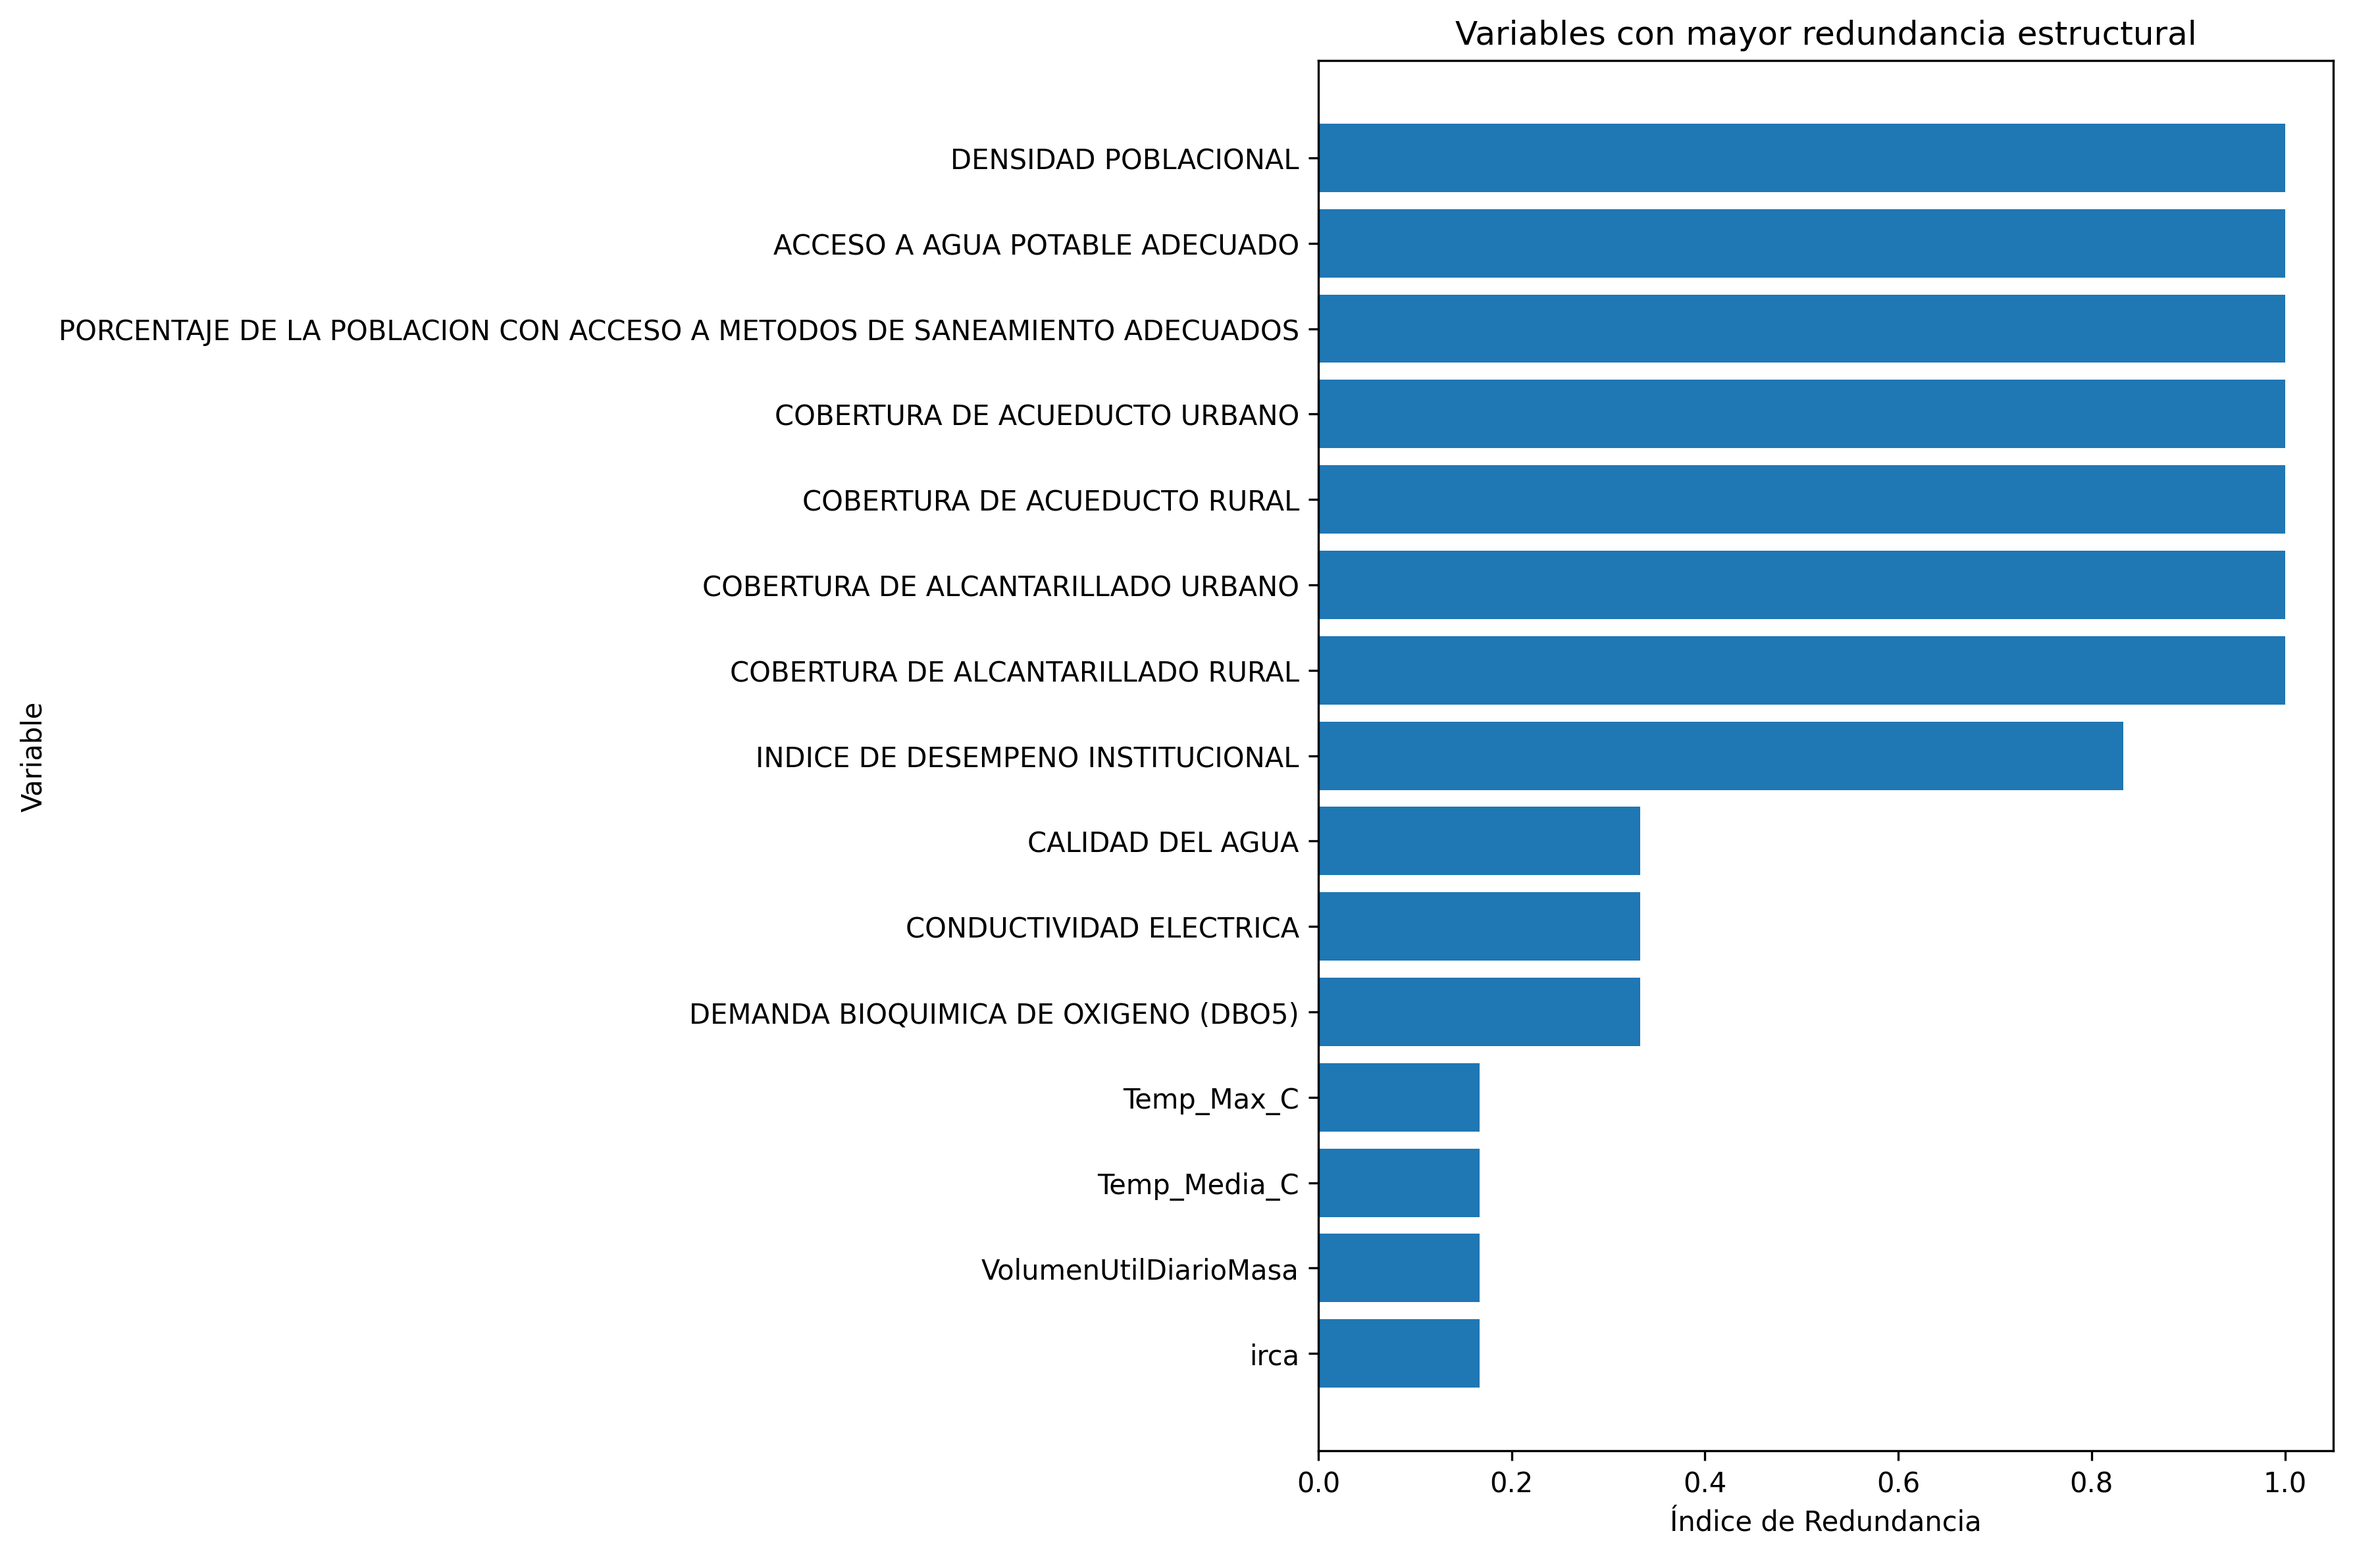
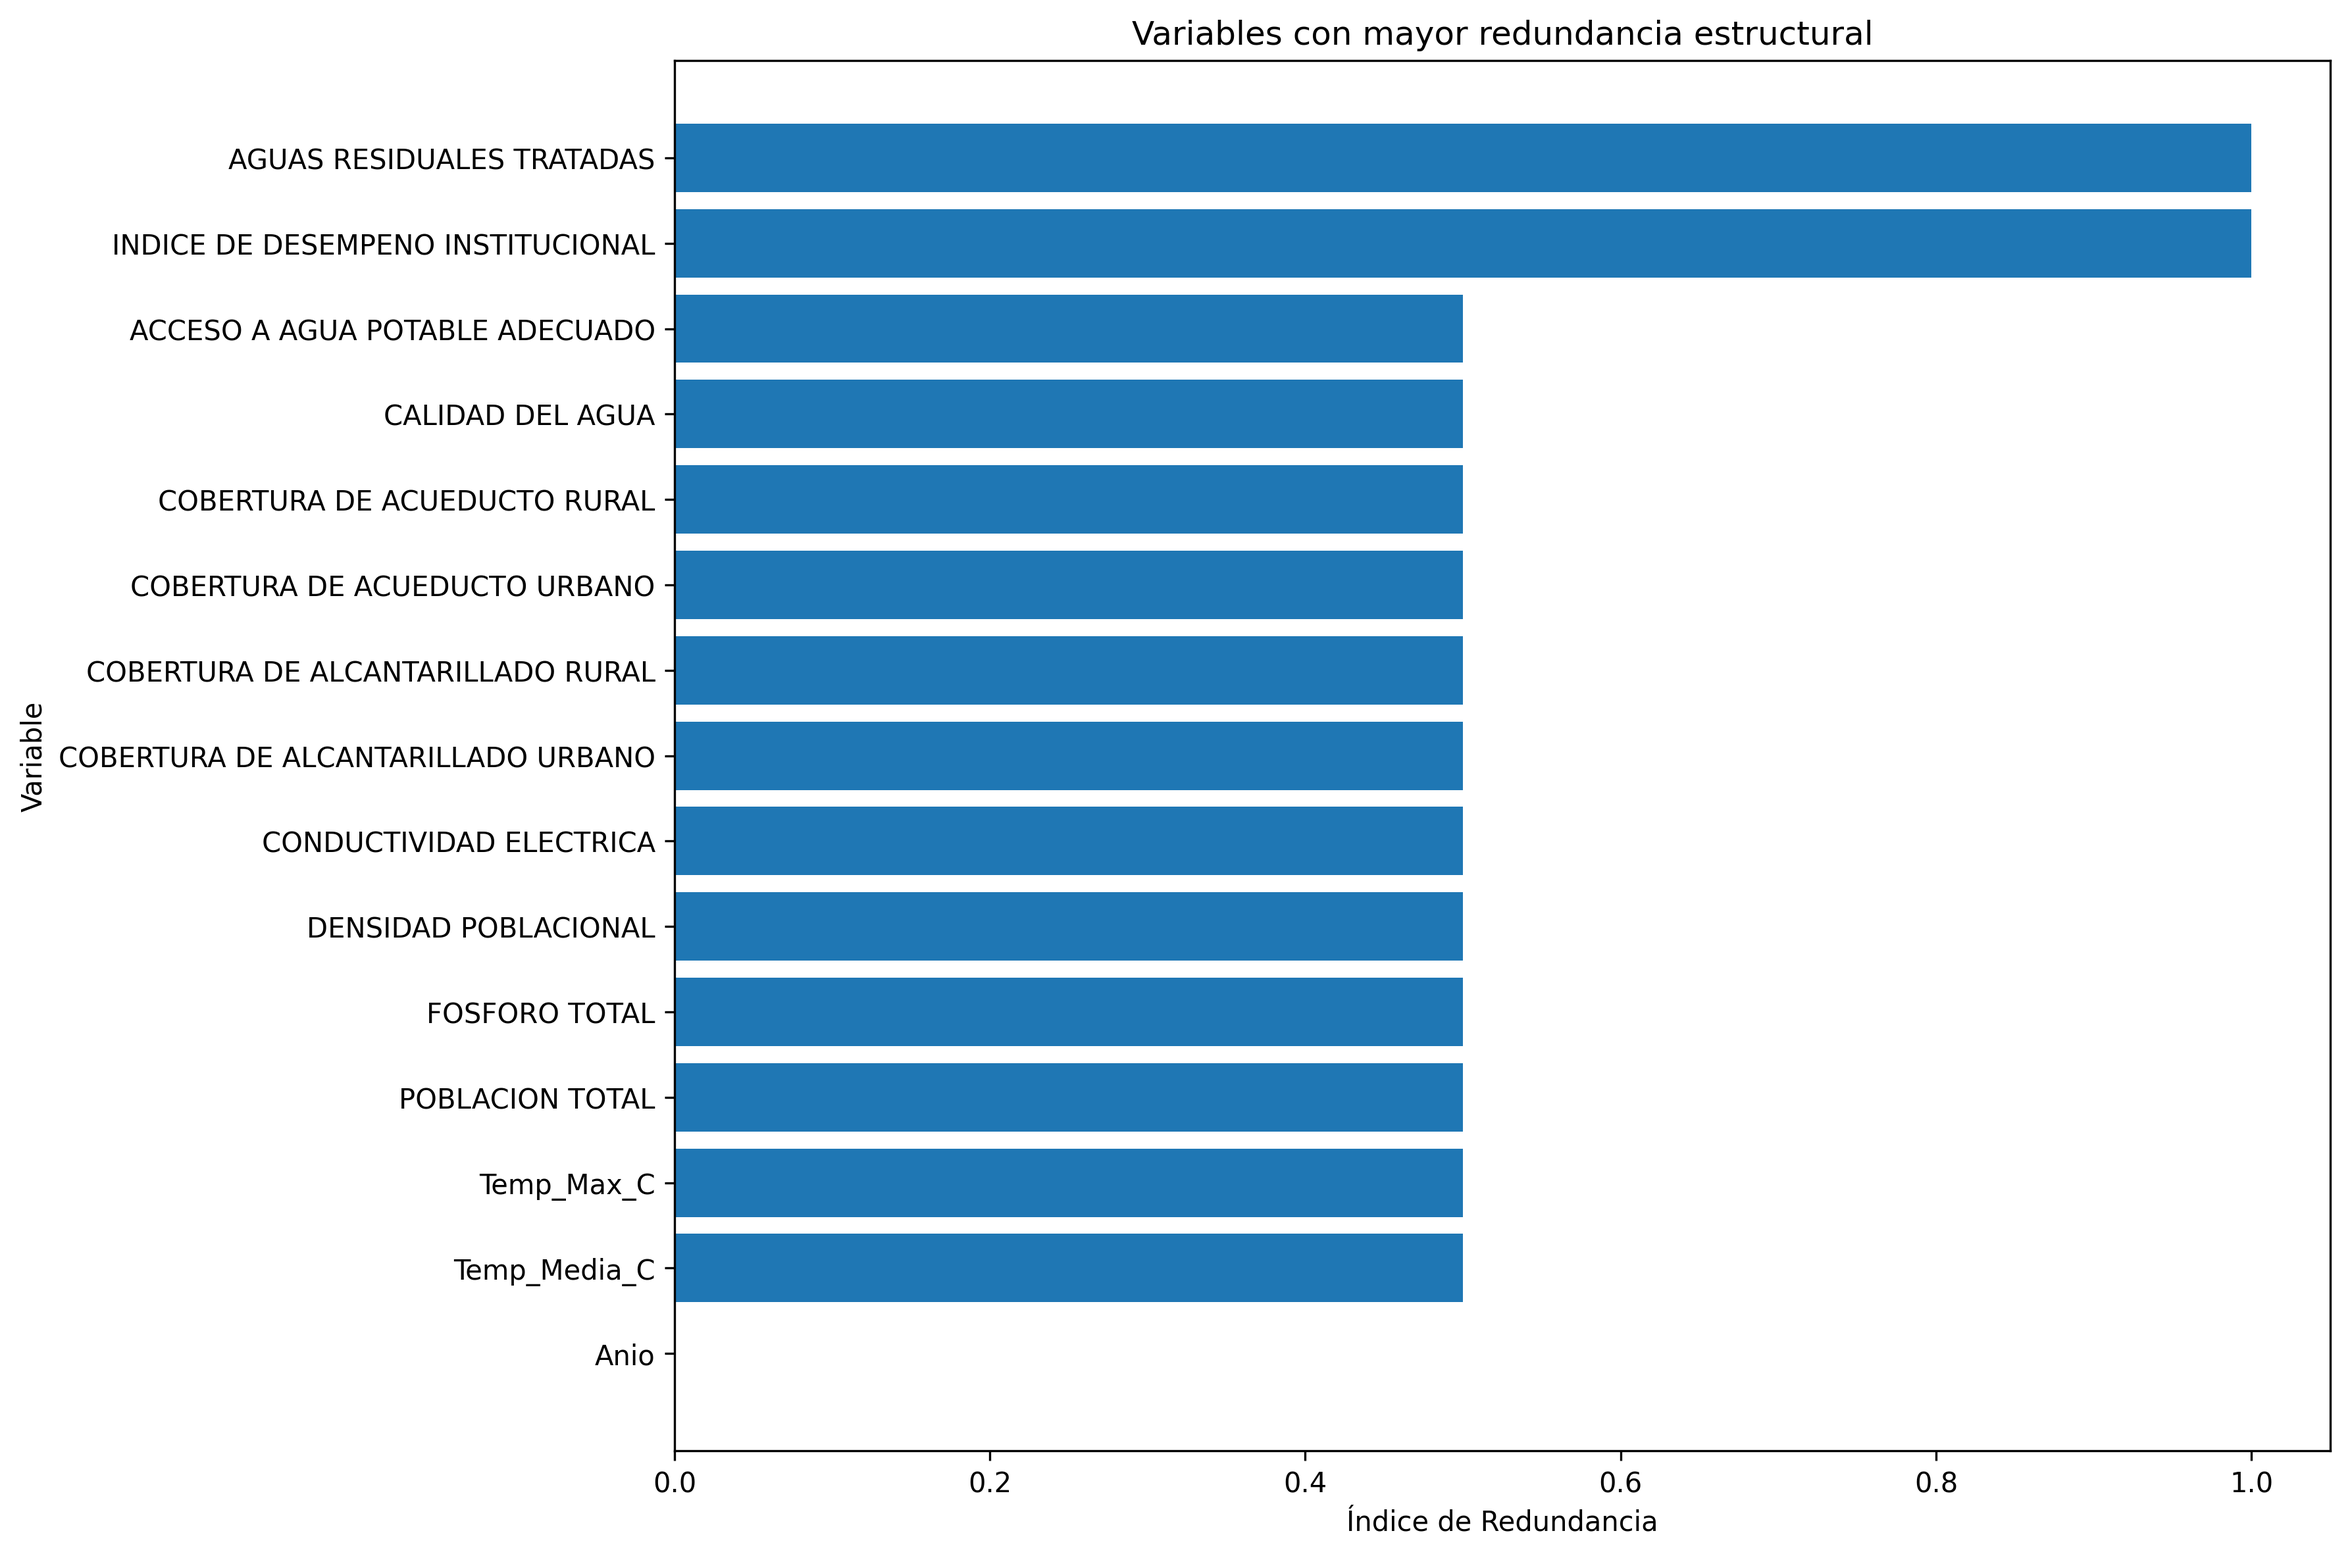
Add files via upload

diff --git a/DATA/MASTER/C10_MASTER/Resultados_EDA/Analisis_Redundancia/Informe_Redundancia.md b/DATA/MASTER/C10_MASTER/Resultados_EDA/Analisis_Redundancia/Informe_Redundancia.md
@@ -2,36 +2,48 @@
 
 ## Objetivo
 
-Cuantificar la redundancia estructural entre las variables numéricas del Dataset Maestro V04 como insumo para la construcción del Índice de Pertinencia para Machine Learning (IPML).
+Cuantificar la redundancia estructural entre las variables numéricas analíticas del Dataset Maestro V04 como insumo para etapas posteriores del Framework y para la construcción del Índice de Pertinencia para Machine Learning (IPML).
 
-## Resultados Generales
+## Criterio metodológico
 
-- Variables evaluadas: **35**
-- Relaciones redundantes: **32**
+Se consideran relaciones de redundancia aquellas asociaciones con correlación absoluta de Pearson >= 0.90 y con un soporte mínimo de 30 observaciones pareadas. Las correlaciones con menor soporte no se utilizan para construir este diagnóstico.
+
+El Índice de Redundancia se obtiene normalizando el número de relaciones fuertes de cada variable respecto al máximo observado en el universo analítico. Por tanto, es un indicador relativo dentro del Dataset Maestro V04.
+
+## Resultados generales
+
+- Variables analíticas evaluadas: **35**
+- Relaciones redundantes con soporte suficiente: **8**
+- Variables involucradas en alguna relación fuerte: **14**
+- Máximo de relaciones fuertes observado: **2**
 
 ## Distribución del Índice de Redundancia
 
-- Muy Baja: 24 variables
-- Muy Alta: 8 variables
-- Baja: 3 variables
+- Muy Alta: 2 variables
+- Alta: 0 variables
+- Moderada: 12 variables
+- Baja: 0 variables
+- Muy Baja: 21 variables
 
 ## Variables con mayor redundancia
 
-- DENSIDAD POBLACIONAL (IR=1.000)
-- ACCESO A AGUA POTABLE ADECUADO (IR=1.000)
-- PORCENTAJE DE LA POBLACION CON ACCESO A METODOS DE SANEAMIENTO ADECUADOS (IR=1.000)
-- COBERTURA DE ACUEDUCTO URBANO (IR=1.000)
-- COBERTURA DE ACUEDUCTO RURAL (IR=1.000)
-- COBERTURA DE ALCANTARILLADO URBANO (IR=1.000)
-- COBERTURA DE ALCANTARILLADO RURAL (IR=1.000)
-- INDICE DE DESEMPENO INSTITUCIONAL (IR=0.833)
-- CALIDAD DEL AGUA (IR=0.333)
-- CONDUCTIVIDAD ELECTRICA (IR=0.333)
+- AGUAS RESIDUALES TRATADAS (relaciones=2, IR=1.000, nivel=Muy Alta)
+- INDICE DE DESEMPENO INSTITUCIONAL (relaciones=2, IR=1.000, nivel=Muy Alta)
+- ACCESO A AGUA POTABLE ADECUADO (relaciones=1, IR=0.500, nivel=Moderada)
+- CALIDAD DEL AGUA (relaciones=1, IR=0.500, nivel=Moderada)
+- COBERTURA DE ACUEDUCTO RURAL (relaciones=1, IR=0.500, nivel=Moderada)
+- COBERTURA DE ACUEDUCTO URBANO (relaciones=1, IR=0.500, nivel=Moderada)
+- COBERTURA DE ALCANTARILLADO RURAL (relaciones=1, IR=0.500, nivel=Moderada)
+- COBERTURA DE ALCANTARILLADO URBANO (relaciones=1, IR=0.500, nivel=Moderada)
+- CONDUCTIVIDAD ELECTRICA (relaciones=1, IR=0.500, nivel=Moderada)
+- DENSIDAD POBLACIONAL (relaciones=1, IR=0.500, nivel=Moderada)
 
 ## Interpretación
 
-Las variables con mayor Índice de Redundancia representan grupos de información altamente relacionados. Las variables con IR cercano a cero aportan información más independiente dentro del Dataset Maestro.
+Un Índice de Redundancia elevado indica que una variable participa en una mayor proporción de las relaciones fuertes identificadas dentro del universo analítico. Un índice igual a cero indica que la variable no participa en relaciones que cumplan simultáneamente el umbral de correlación y el soporte mínimo definidos para este análisis.
 
-## Conclusiones
+Este resultado no implica que una variable sea irrelevante, ni que deba ser eliminada automáticamente. La redundancia constituye únicamente un componente diagnóstico que debe evaluarse posteriormente junto con otros criterios, incluido el VIF, la cobertura, la calidad de los datos y el conocimiento del dominio.
 
-El Índice de Redundancia constituye el primer criterio objetivo para la evaluación de variables dentro del Framework y será integrado posteriormente con el VIF, la cobertura, la calidad de datos y el conocimiento del dominio para construir el IPML.
+## Conclusión
+
+El diagnóstico caracteriza la redundancia estructural de las 35 variables numéricas analíticas sin realizar eliminación automática. Sus resultados quedan disponibles como insumo para los análisis posteriores del Framework y para la integración final del IPML.
